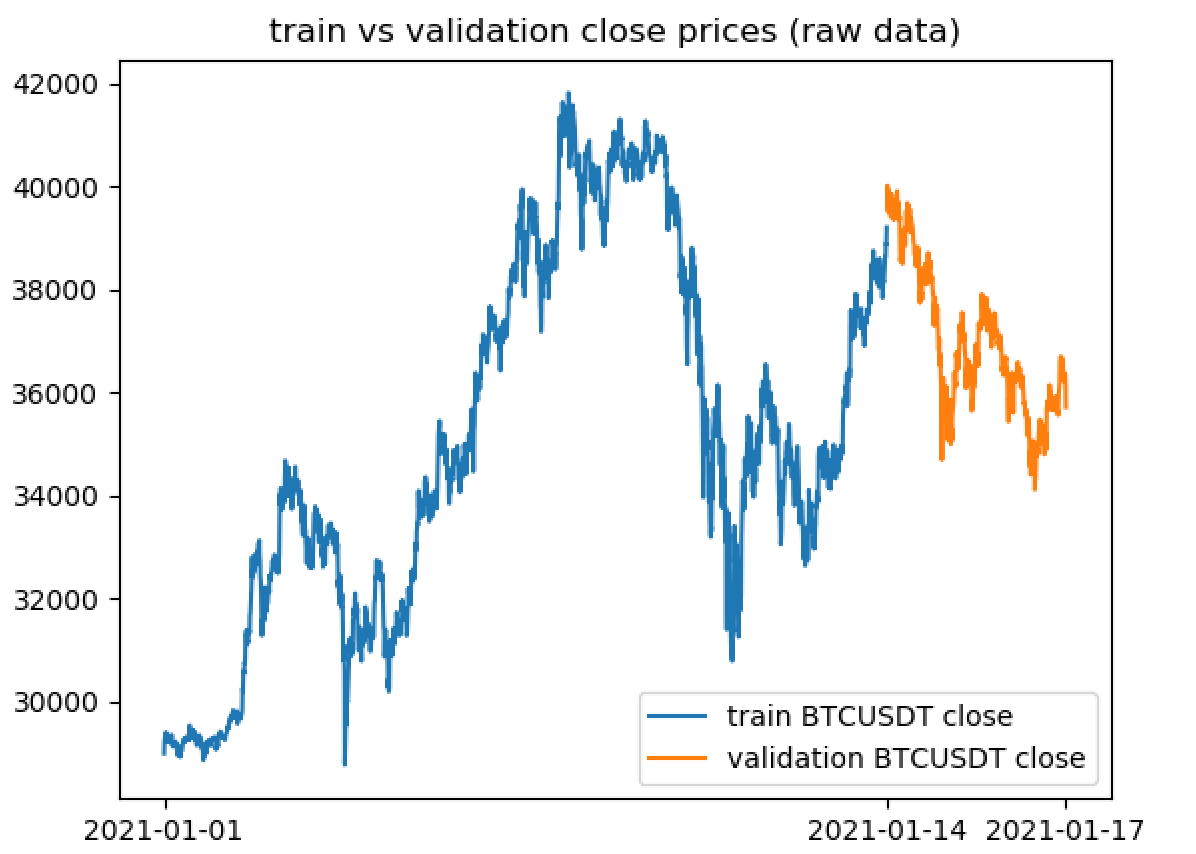
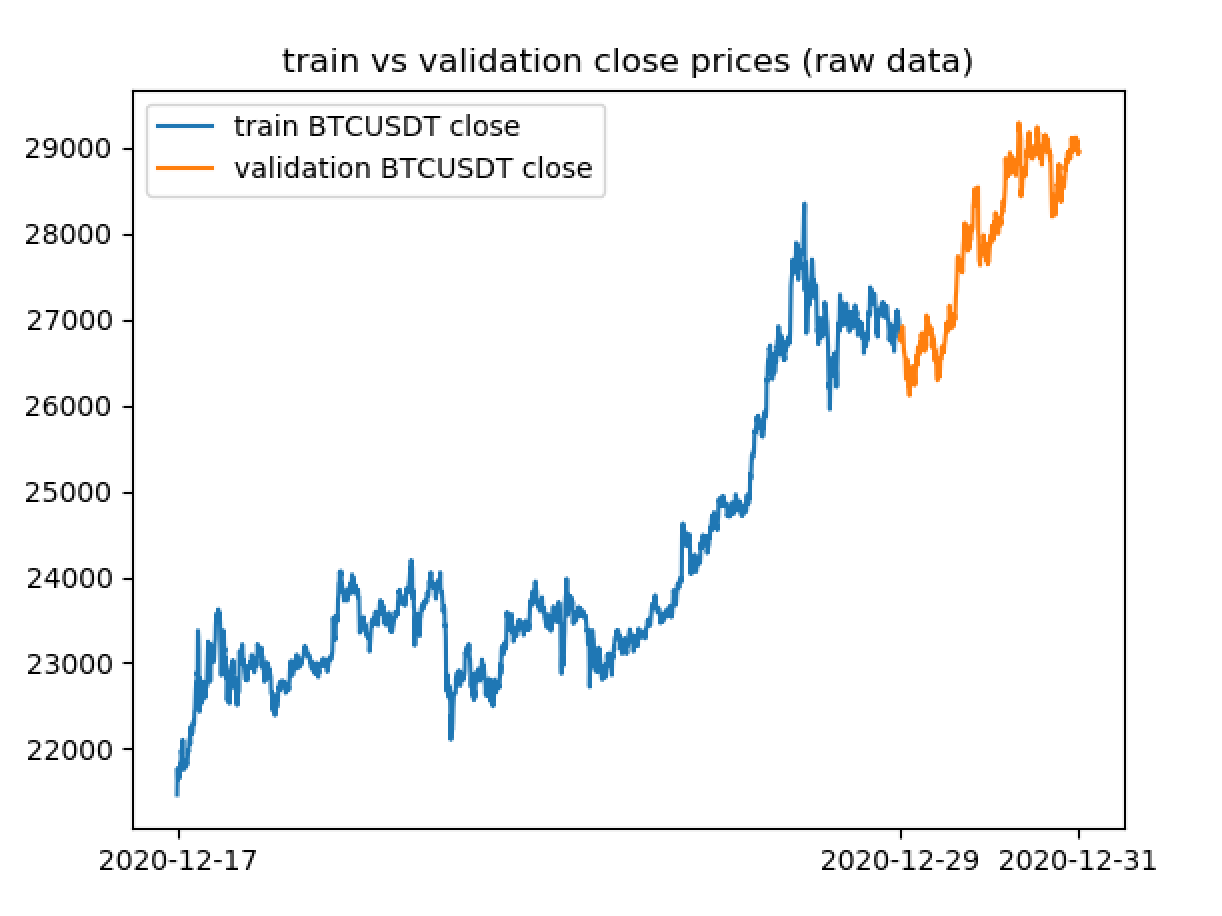
updated readme

Changed region(s): [[0.0, 0.0, 0.959, 1.0]]

diff --git a/readme.md b/readme.md
@@ -98,8 +98,9 @@ are around minus and plus 1 percent, meaning that over the 6-month timeframe, ar
 ## Neural Network
 ### Data Selection
 A subset of the historical data is used for training and validation of the neural network. In the current example the 
-subset used for training is data from the first two weeks of january 2021, that is 01-01-2021 to 14-01-2021. The figures 
-below shows the close prices (left) and volumes traded (right) on 10 minute intervals from 01-01-2021 to 14-01-2021.
+subset used for training is data from the last two weeks of December 2020, that is 17-12-2020 to 31-12-2020. The figures 
+below shows the close prices (left) and volumes traded (right) on 1 minute intervals sub-sampled from 17-12-2020 to 
+31-12-2020.
 
 <img src="images/train_val_close.png" alt="drawing" width="400"/> <img src="images/train_val_volume.PNG" alt="drawing" width="400"/>
 
@@ -116,7 +117,7 @@ The figure below shows the processed training and validation target values.
 <img src="images/train_val_processed.png" alt="drawing" width="400"/>
 
 The x axis no longer shows time as the training and validation data is shuffled, the cumulative number of samples is 
-displayed instead, there are 19519 training data-points and 4831 validation data-points. The y axis no longer shows
+displayed instead, there are 16983 training data-points and 4197 validation data-points. The y axis no longer shows
 the close price as the data is processed, the processed target values are shown instead.
 Data processing was performed in part with stacked transformers and scalers using pipline objects from Scikit-Learn. 
 
@@ -174,7 +175,7 @@ The network output against targets for the validation dataset is shown in the fi
 
 <img src="images/val_y.png" alt="drawing" width="400"/>
 
-Of the total 4831 validation data-points the first 300 are displayed. This shows the general behavior of the network 
+Of the total 4197 validation data-points the first 300 are displayed. This shows the general behavior of the network 
 compared against the targets of the validation dataset. This network is still able to generalise well given its 
 low complexity and time to train.
 
